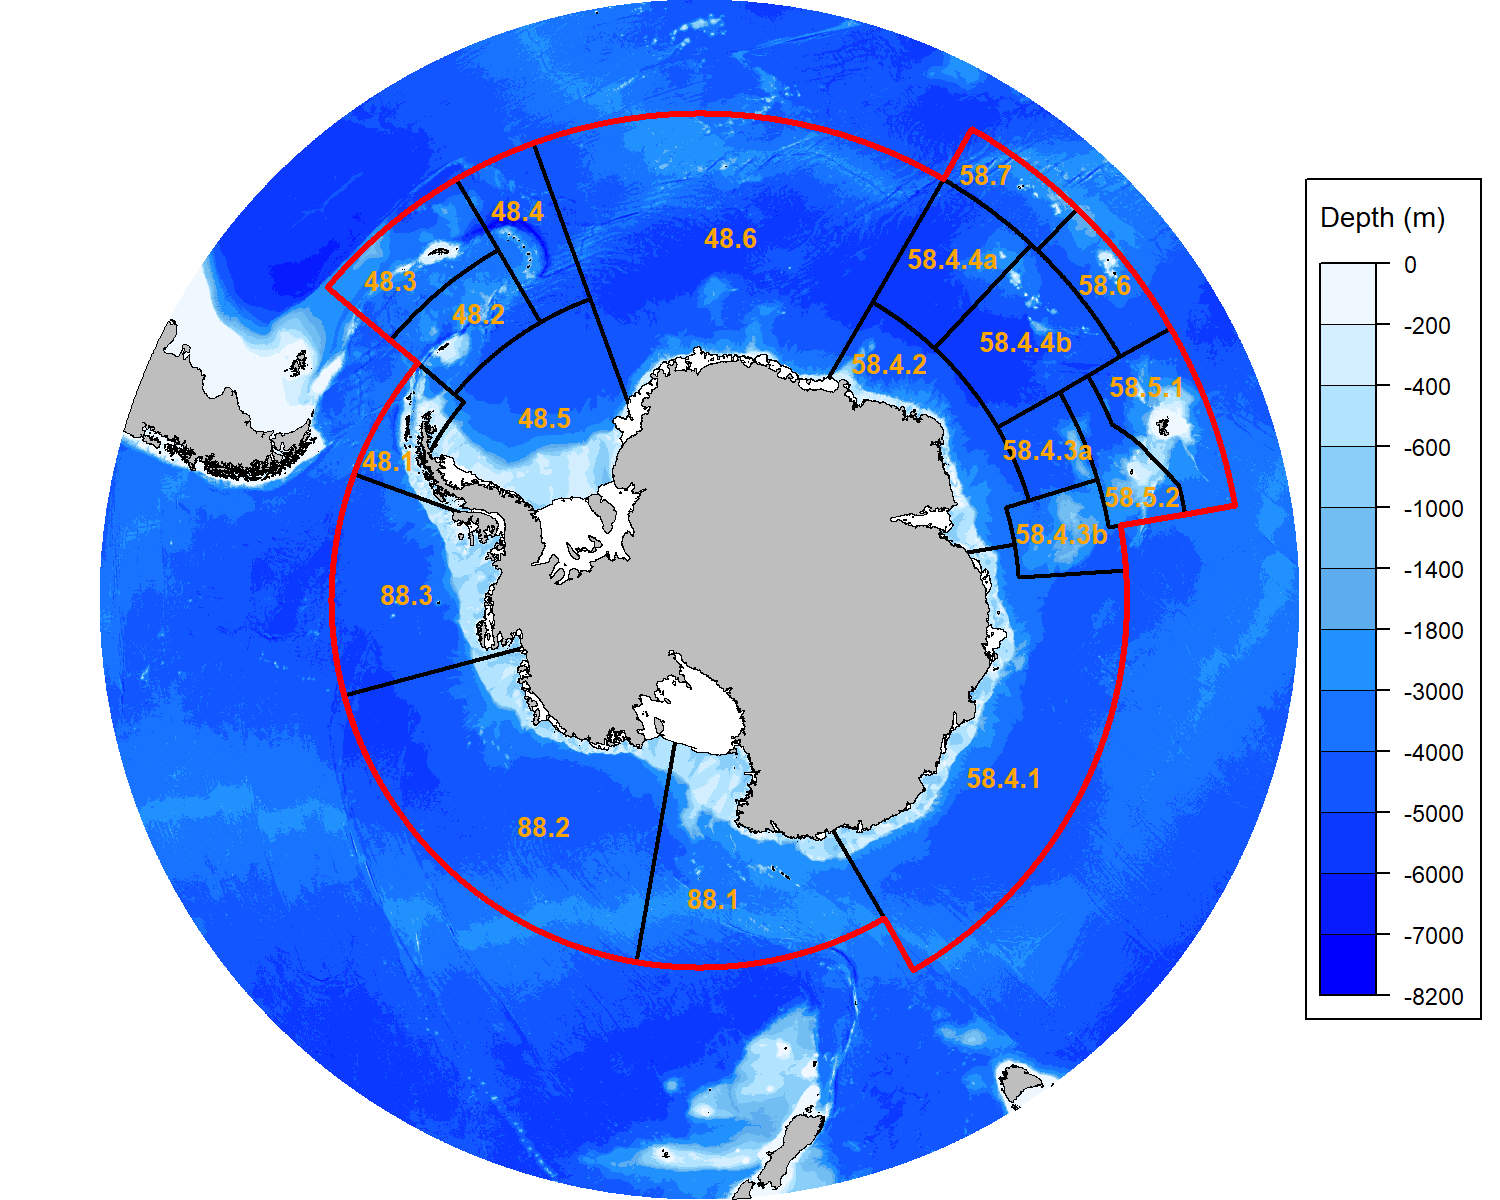
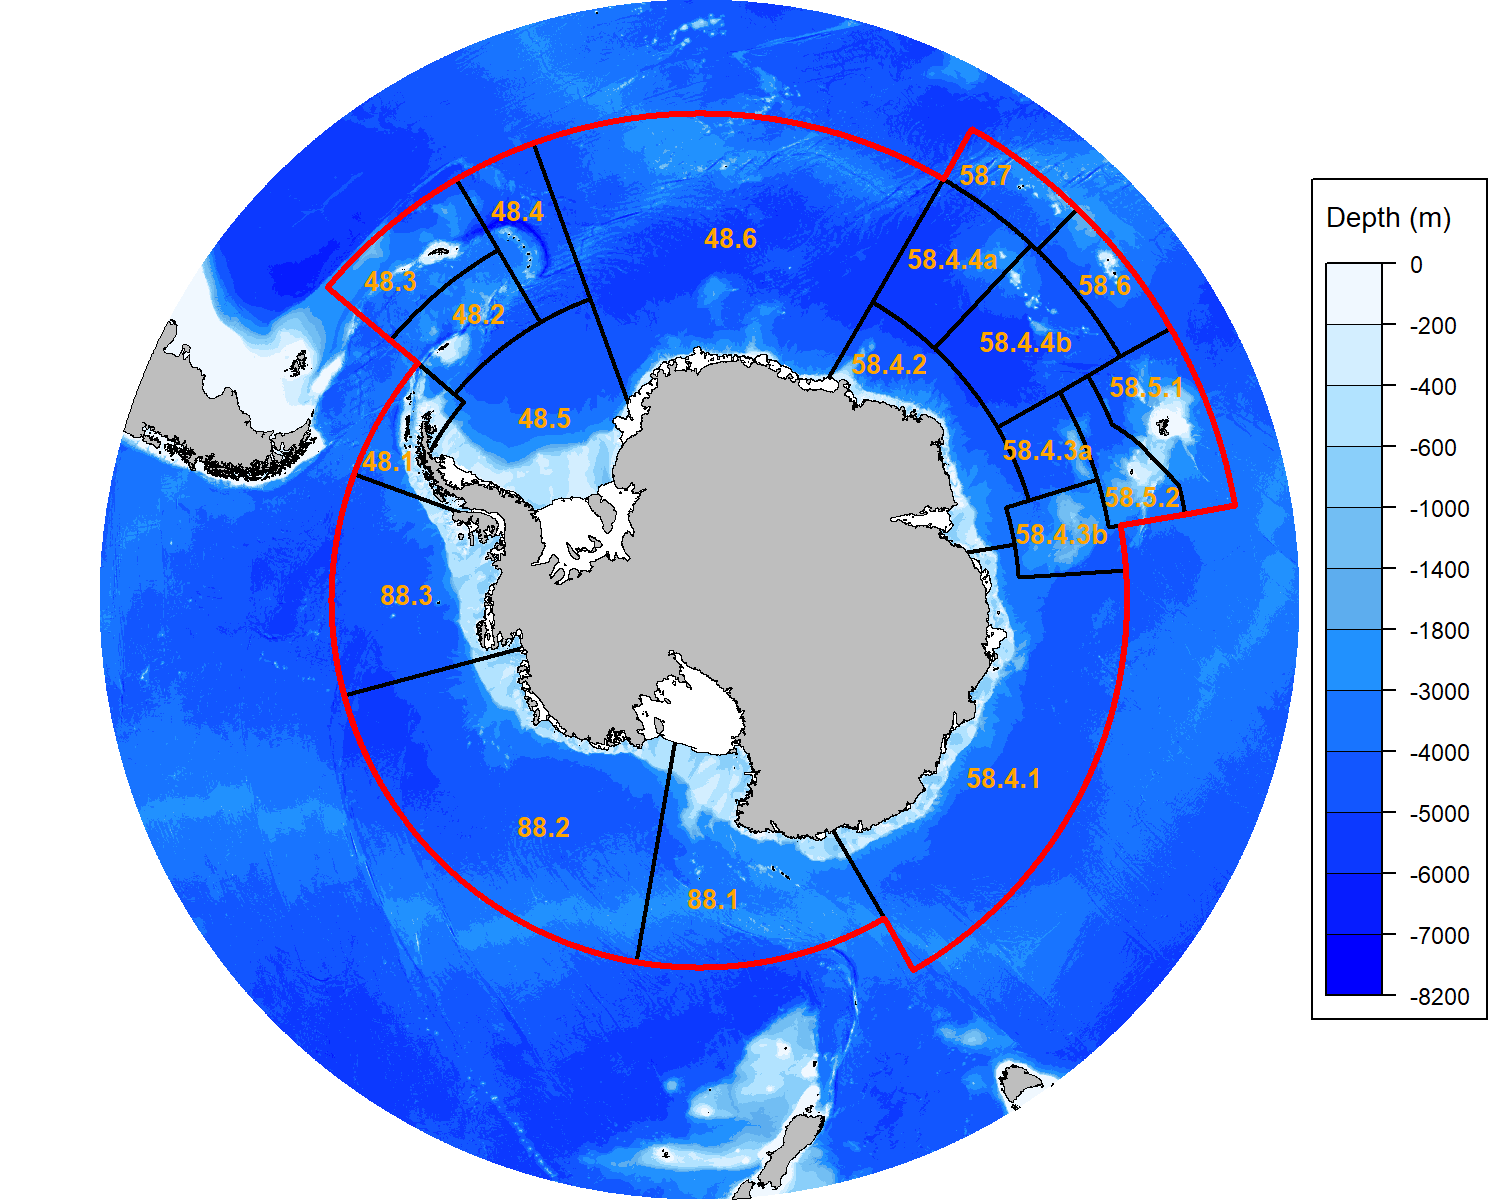
Update

Changed region(s): [[0.8587, 0.1542, 1.0, 0.8633]]

diff --git a/Documentation/External_data.md b/Documentation/External_data.md
@@ -26,6 +26,208 @@ for CCAMLR use.
 
 ### 1. Coastlines
 
+Since 2024, the CCAMLR Secretariat maintains coastlines layers produced
+following the Geospatial Rules. Layers from two main data sources are
+used; from the [UK Polar Data
+Centre](https://www.bas.ac.uk/team/business-teams/information-services/uk-polar-data-centre/)
+(which generates the layers used in the [SCAR
+ADD](https://www.scar.org/resources/antarctic-digital-database/)) and
+from [Natural Earth](https://www.naturalearthdata.com/) (a public domain
+map dataset supported by the [North American Cartographic Information
+Society](https://nacis.org/)).
+
+More specifically, four datasets are used. These are:
+
+- High resolution vector polygons of the Antarctic coastline
+  - Source: British Antarctic Survey / UK Polar Data Centre
+  - Short description: Coastline and ice shelves south of 60S
+  - URL: <https://doi.org/10.5285/c7fe759d-e042-479a-9ecf-274255b4f0a1>
+  - Citation: Gerrish, L., Ireland, L., Fretwell, P., & Cooper, P.
+    (2023). High resolution vector polygons of the Antarctic coastline -
+    VERSION 7.8 (Version 7.8) (Data set). NERC EDS UK Polar Data Centre.
+    <https://doi.org/10.5285/c7fe759d-e042-479a-9ecf-274255b4f0a1>
+- Vector polygons of the Sub-Antarctic coastline
+  - Source: British Antarctic Survey / UK Polar Data Centre
+  - Short description: Coastline between 50S and 60S (from which the
+    data between 50W and 20W is extracted)
+  - URL: <https://doi.org/10.5285/c1d83502-8799-4e3c-bdca-21db6a4405d4>
+  - Citation: Gerrish, L. (2020). Vector polygons of the Sub-Antarctic
+    coastline - VERSION 7.3 (Version 1.0) (Data set). UK Polar Data
+    Centre, Natural Environment Research Council, UK Research &
+    Innovation.
+    <https://doi.org/10.5285/c1d83502-8799-4e3c-bdca-21db6a4405d4>
+- Land polygons including major islands
+  - Source: Natural Earth
+  - Short description: 1:10m Physical Vectors for major land masses
+    (from which the data between 40S and 60S is extracted)
+  - URL:
+    <https://www.naturalearthdata.com/downloads/10m-physical-vectors/>
+  - Citation: Made with Natural Earth. Free vector and raster map data @
+    naturalearthdata.com.
+- Islands that are 2 sq. km or less in size
+  - Source: Natural Earth
+  - Short description: 1:10m Physical Vectors for minor islands (from
+    which the data between 40S and 60S is extracted)
+  - URL:
+    <https://www.naturalearthdata.com/downloads/10m-physical-vectors/>
+  - Citation: Made with Natural Earth. Free vector and raster map data @
+    naturalearthdata.com.
+
+These data are combined, projected and simplified with a 10m tolerance
+using the
+[Coastline.R](https://github.com/ccamlr/geospatial_operations/tree/main/Dataset/External%20data/Scripts)
+script. The following script shows how to plot the coastline while
+color-coding the data sources and types:
+
+``` r
+library(CCAMLRGIS)
+
+#Load Coastline
+Coast=load_Coastline()
+
+#Plot
+png(filename=paste0(Pth,"Figures/Coastline.png"),width=3000,height=3000,res=600)
+par(mai=rep(0,4))
+plot(st_geometry(Coast[Coast$source=="Natural Earth",]),col="orange",lwd=0.01)
+plot(st_geometry(Coast[Coast$source=="BAS" & Coast$layer=="Land",]),col="blue",add=T,lwd=0.01)
+plot(st_geometry(Coast[Coast$layer=="Ice shelves",]),col="grey",add=T,lwd=0.01)
+plot(st_geometry(Coast[Coast$layer=="Ice tongues",]),col="green",add=T,lwd=0.01)
+plot(st_geometry(Coast[Coast$layer=="Ice rumples",]),col="red",add=T,lwd=0.01)
+legend("bottomleft",
+       legend=c('Natural Earth land','BAS land','BAS ice shelves','BAS ice tongues','BAS ice rumples'),
+       fill=c('orange','blue','grey','green','red'),
+       seg.len=0,cex=0.75,
+       xpd=TRUE)
+d=dev.off()
+```
+
+<div class="figure" style="text-align: center">
+
+<img src="../Figures/Coastline.png" alt="Figure 1. CCAMLR coastline with elements color-coded by source. Sources: UK Polar Data Centre/BAS and Natural Earth. Projection: EPSG 6932." width="100%" />
+<p class="caption">
+
+Figure 1. CCAMLR coastline with elements color-coded by source. Sources:
+UK Polar Data Centre/BAS and Natural Earth. Projection: EPSG 6932.
+</p>
+
+</div>
+
+<br>
+
+The data contained in the geopackage is structured as follows (where
+*version* is the version of the CCAMLR coastline), with a row per set of
+polygons:
+
+| version | source | srcvrsn | layer | surface |
+|:---|:---|:---|:---|:---|
+| 1.0 | Natural Earth | Land V5.1.1 and Minor Islands V4.1.0 | Land | Land |
+| 1.0 | BAS | Ant. coastline V7.8 and Sub-Ant. coastline V7.3 | Land | Land |
+| 1.0 | BAS | Ant. coastline V7.8 | Ice shelves | Ice |
+| 1.0 | BAS | Ant. coastline V7.8 | Ice tongues | Ice |
+| 1.0 | BAS | Ant. coastline V7.8 | Ice rumples | Ice |
+
+<br>
+
+The following script shows how to plot a specific subset of the data
+(*e.g.*, for Subarea 48.1), after rotating it so that North points up:
+
+``` r
+library(CCAMLRGIS)
+
+#Load Coastline
+Coast=load_Coastline()
+
+#Load ASDs
+ASDs=load_ASDs()
+#Isolate Subarea 48.1
+A481=ASDs[ASDs$GAR_Short_Label=="481",] 
+
+#Rotate objects
+Lonzero=-60 #This longitude will point up
+R_A481=Rotate_obj(A481,Lonzero)
+R_coast=Rotate_obj(Coast,Lonzero)
+
+#Create a bounding box for the region
+bb=st_bbox(st_buffer(R_A481,10000)) #Get bounding box (x/y limits) + buffer
+bx=st_as_sfc(bb) #Build spatial box to plot
+
+#Use bounding box to crop coastline
+R_coast=suppressWarnings( st_intersection(R_coast,bx) )
+
+
+#Plot
+png(filename=paste0(Pth,'Figures/Coastline_481.png'),width=2000,height=2400,res=300)
+par(mai=rep(0.1,4)) #margins
+plot(bx,col="lightblue")
+plot(st_geometry(R_A481),border="black",lwd=2,add=T,col="palegreen")
+plot(st_geometry(R_coast[R_coast$surface=="Land",]),col="grey",add=T)
+plot(st_geometry(R_coast[R_coast$surface=="Ice",]),col="white",add=T)
+add_RefGrid(bb=bb,ResLat = 2.5,ResLon = 5,lwd=1,fontsize = 0.75)
+plot(bx,lwd=2,add=T,xpd=T)
+
+legend(x=250000,y=2050000,
+       legend=c('Subarea 48.1','Ocean','Land', 'Ice Shelves'),
+       fill=c("palegreen","lightblue","grey","white"),
+       xpd=T)
+
+d=dev.off()
+```
+
+<div class="figure" style="text-align: center">
+
+<img src="../Figures/Coastline_481.png" alt="Figure 2. CCAMLR coastline for Subarea 48.1. Sources: UK Polar Data Centre/BAS and Natural Earth. Projection: EPSG 6932 (rotated)." width="60%" />
+<p class="caption">
+
+Figure 2. CCAMLR coastline for Subarea 48.1. Sources: UK Polar Data
+Centre/BAS and Natural Earth. Projection: EPSG 6932 (rotated).
+</p>
+
+</div>
+
+<br>
+
 ------------------------------------------------------------------------
 
 ### 2. Bathymetry
+
+The CCAMLR Secretariat uses [GEBCO](https://www.gebco.net/) as its
+bathymetry data source. Starting from the raw data, two derived products
+are generated:
+
+- Rasters: ‘*.tif*’ files in which the data was reprojected (to
+  EPSG:6932) after cropping at 40°S, and aggregated at different
+  resolutions. These are available
+  [here](https://github.com/ccamlr/data/tree/main/geographical_data/bathymetry).
+
+- Contour polygons: ‘*.gpkg*’ files built using the
+  [get_iso_polys()](https://github.com/ccamlr/CCAMLRGIS#46-get_iso_polys)
+  function within the
+  [Bathymetry_Polygons.R](https://github.com/ccamlr/geospatial_operations/blob/main/Dataset/External%20data/Scripts/Bathymetry_Polygons.R)
+  script, which converts raster data into polygons that delineate
+  isobaths. Three files of different resolution are produced, each
+  containing elements that help plotting maps (per-polygon colour as
+  well as the corresponding colorscale information). An example is given
+  below (Fig. 3).
+
+``` r
+Bathy=st_read(paste0(Pth,"Dataset/External data/GEBCO_Polygons_LoRes.gpkg"),quiet=T)
+
+png(filename=paste0(Pth,'Figures/Bathy_LoRes_demo.png'),width=1500,height=1200,res=200)
+par(mai=c(0,0,0,0.5),xaxs="i",yaxs="i",xpd=T) #margins
+plot(st_geometry(Bathy),col=Bathy$c,border=NA)
+add_Cscale(cuts=Bathy$Scale_cuts[is.na(Bathy$Scale_cuts)==F],
+           cols=Bathy$Scale_cols[is.na(Bathy$Scale_cols)==F],
+           offset=-850,fontsize=0.7,width=13)
+d=dev.off()
+```
+
+<div class="figure" style="text-align: center">
+
+<img src="../Figures/Bathy_LoRes_demo.png" alt="Figure 3. Polygon contours of the GEBCO bathymetry ('GEBCO_Polygons_LoRes.gpkg')." width="100%" />
+<p class="caption">
+
+Figure 3. Polygon contours of the GEBCO bathymetry
+(‘GEBCO_Polygons_LoRes.gpkg’).
+</p>
+
+</div>

diff --git a/Documentation/Dataset.md b/Documentation/Dataset.md
@@ -318,7 +318,7 @@ par(mai=c(0,0,0,0.5),xaxs="i",yaxs="i",xpd=T) #margins
 plot(st_geometry(Bathy),col=Bathy$c,border=NA)
 add_Cscale(cuts=Bathy$Scale_cuts[is.na(Bathy$Scale_cuts)==F],
            cols=Bathy$Scale_cols[is.na(Bathy$Scale_cols)==F],
-           offset=-900,fontsize=0.7,width=13)
+           offset=-850,fontsize=0.7,width=13)
 
 plot(st_geometry(ASDs),add=T,lwd=2)
 
